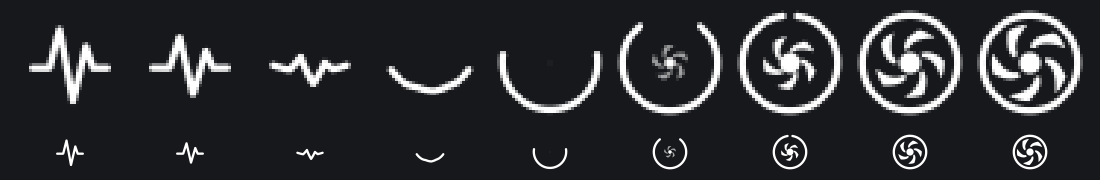
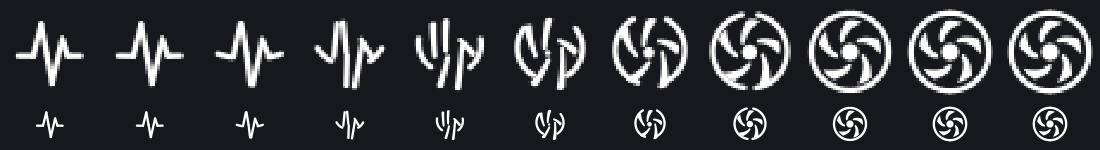
Vitals fan plan: the pulse strokes become the blades

diff --git a/plans/2026-11-08-vitals-menu-bar-fan.md b/plans/2026-11-08-vitals-menu-bar-fan.md
@@ -33,9 +33,9 @@ Inside Vitals (`~/claude/vitals`). It is already running in the menu bar and alr
 
 **Fan off:** the normal Vitals pulse. Vitals checks the fan every 2 seconds.
 
-**Fan starts:** on the first reading above 0, the pulse morphs into the fan in about half a second. The spikes relax, the line bends into a smile, its ends sweep up and close into the ring, and the blades grow out of the center already turning. No window, banner, sound or focus change. Checks speed up to once a second while it runs.
+**Fan starts:** on the first reading above 0, the pulse morphs into the fan in about a second. Nothing appears from nowhere: the five zigzag strokes of the pulse swing out and thicken into the five blades, the two flat tails sweep around into the ring, and the hub grows from the point where the long stroke was cut. No window, banner, sound or focus change. Checks speed up to once a second while it runs.
 
-**Fan running:** the icon's spin follows the real speed. Changes are smoothed over about a second so it speeds up and slows down like something with weight.
+**Fan running:** the icon's spin follows the real speed. Changes use a no-bounce spring with a 1.1 second response, so speed never changes abruptly and the fan feels like it has weight.
 
 **Fan stops:** the blades coast to a stop and the fan stays 8 seconds, then the same morph plays in reverse. The wait stops it flickering if the fan pulses on and off. If the fan restarts mid-morph, the shape turns around from where it is, with no jump.
 
@@ -68,8 +68,13 @@ The blades also blur as speed rises, up to about 30 degrees of smear at full spe
 - Six ideas were rendered at the real 36-pixel size beside the actual menu bar icons (`research/vitals-fan-icon-study.png`). Apple's own SF Symbols fan reads as a clover. The snail-shaped blower case turns to mush. The solid square is too heavy. A bare pinwheel looks like a toy. A reviewer who was not told the subject picked the ring and named it a fan or turbine. The outline square came second and is the backup.
 - Numbers, in a 20-unit box centered on the hub, angles clockwise from the top. Each blade starts at radius 2.9, angle 0. It curves to radius 7.3, angle 38, with its control at radius 5.1, angle 5. It follows the circle to angle 68, then curves back to radius 2.9, angle 18, with its control at radius 5.1, angle 29. Hub radius 2. Ring radius 9, line width 1.3.
 - The morph starts from a trace of Apple's `waveform.path.ecg` symbol at 14 points semibold (`research/vitals-pulse-morph.png`). Its line is 1.15 points thick, almost the same as the ring, so the line itself becomes the ring. Trace in points from the icon's center, y up: (-6.5, -0.85), (-3.5, -0.85), (-1.85, 5.75), (0.4, -6.5), (2.55, 2.75), (3.75, -0.85), (6.3, -0.85).
-- Morph, with t going 0 to 1: spike height falls to 0 by t 0.42. The line curls from t 0.1 to 0.85, keeping its length until it fits the ring's 8.1-point radius, then growing as its ends sweep around. The hub grows from t 0.45 to 0.8 and the blades from t 0.5 to 1. Drive t with a no-bounce spring (0.5 second response) so it can reverse at any moment. The blades use the live spin angle throughout, so there is no pause when the morph ends.
-- Four morphs were rendered frame by frame. Curling closed won. Adding a rotation was disorienting, collapsing to a dot and regrowing was not a morph, and drawing the ring separately broke into pieces.
+- Morph strokes: cut the long downstroke at its middle, which gives five strokes numbered left to right from 0. Going clockwise from the blade at 27 degrees, spaced 72 degrees apart, the blades take strokes 4, 3, 2, 0, 1. Blades 1 and 4 use their stroke backward. A search of every pairing found this one moves the strokes the least.
+- Each stroke starts as a capsule the width of the line and morphs into the blade outline, point for point. Position and angle move from t 0 to 0.9, staggered 0.015 per blade, and the shape fattens from t 0.2 to 1.
+- The left and right tails move in polar coordinates to the ring's left and right halves from t 0.04 to 0.94, outer ends to the top, inner ends to the bottom. The hub grows from t 0.25 to 0.85, moving from the cut point to the center.
+- All of those use a smootherstep curve. Drive t with a no-bounce spring (0.85 second response) so it can reverse at any moment. The live spin angle fades in from t 0.3 to 1, so there is no pause when the morph ends. On the way back, first reduce the spin angle to within 36 degrees, which is invisible because the blades repeat.
+- Measured at 120 frames a second: the fastest point moves 62 points a second, down from 198 in the first morph, and the largest frame-to-frame speed change fell from 9,083 to 645. No part reaches past 8.1 points from the center, so nothing clips.
+- Evan rejected blades that grow from the center: "the blades should come from the lines of vital".
+- Rejected earlier: adding a rotation was disorienting, collapsing to a dot and regrowing was not a morph, and drawing the ring separately broke into pieces.
 - Drawn in code next to the existing `MenuBarIcon` in `VitalsApp.swift`.
 - Black-and-clear "template" images, so macOS colors it correctly on any wallpaper and in light or dark.
 - The pulse and its needs-attention state stay exactly as they are.
@@ -78,10 +83,11 @@ The blades also blur as speed rises, up to about 30 degrees of smear at full spe
 
 The icon must not cause the heat it reports.
 
-- Blades repeat every 72 degrees, so 18 pre-drawn frames at each of 4 blur levels cover the whole spin. Built once, then swapped.
-- 30 frames a second at most. 15 in Low Power Mode.
+- Smoothness comes first: the spin runs on a Core Animation layer at the display's full refresh rate, up to 120 a second, outside the app's own code. Blur cross-fades between a sharp and a blurred copy of the blades.
+- Risk to test first: layers do not get macOS's automatic menu bar coloring, so the color has to follow the menu bar's appearance. If that fails, fall back to pre-drawn image frames at 60 a second, and 30 in Low Power Mode.
+- The morph frames are pre-drawn once, then played.
 - Pauses when the display sleeps or the menu bar is hidden in full screen.
-- Target: under 1% of one CPU core while spinning, measured. If image swapping misses that, switch the blades to a Core Animation layer that runs outside the app.
+- Target: under 1% of one CPU core while spinning, measured.
 - With Reduce Motion on, the pulse cross-fades to a still fan, with no morph, spin or blur. The tooltip still gives the speed.
 
 ## Build steps
